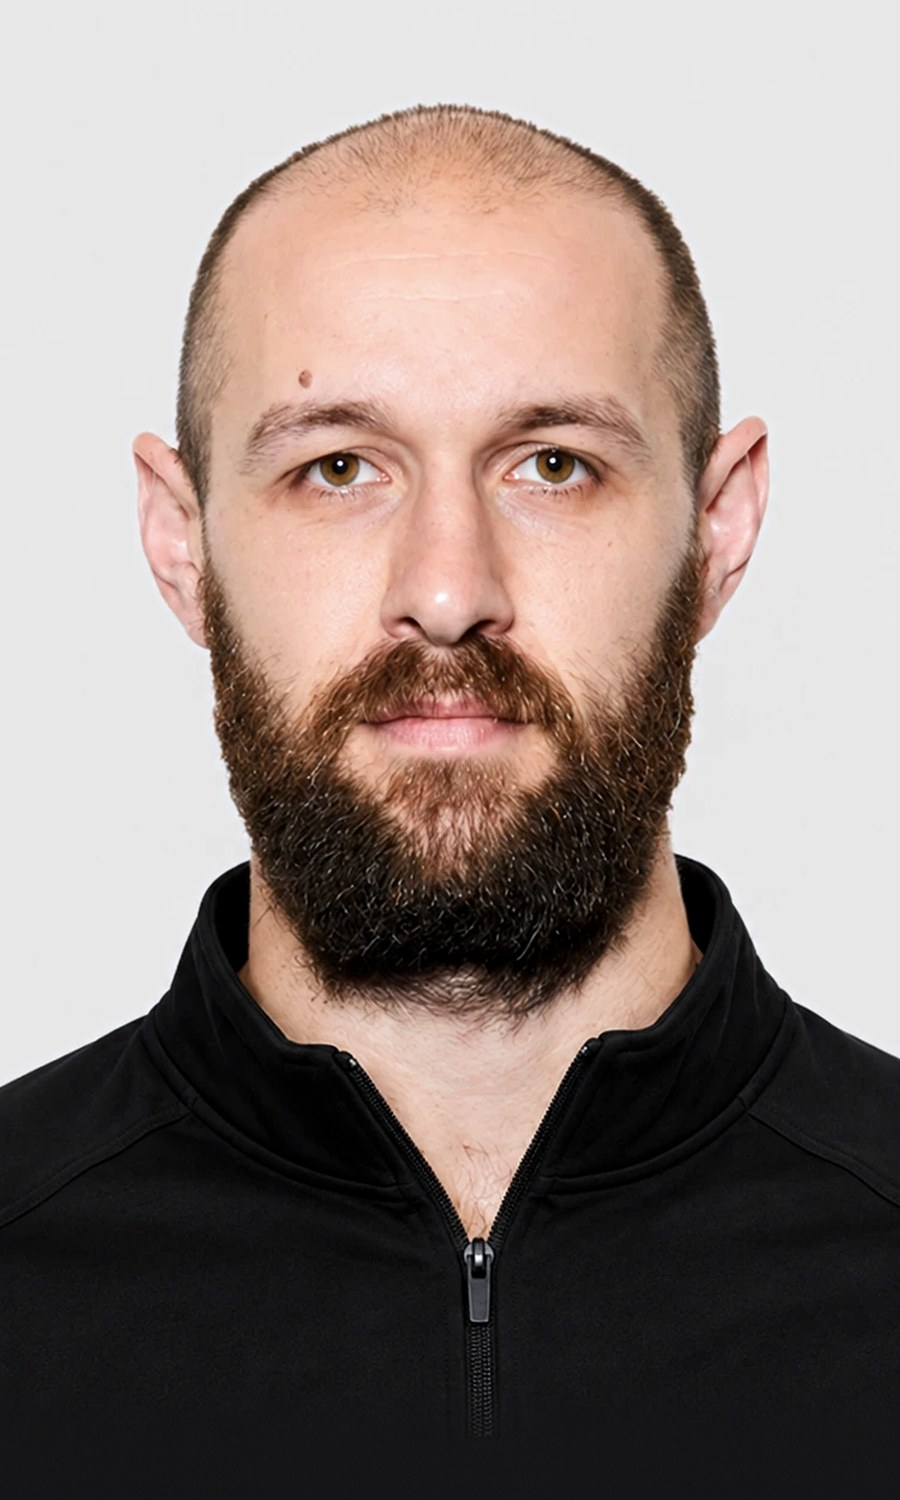
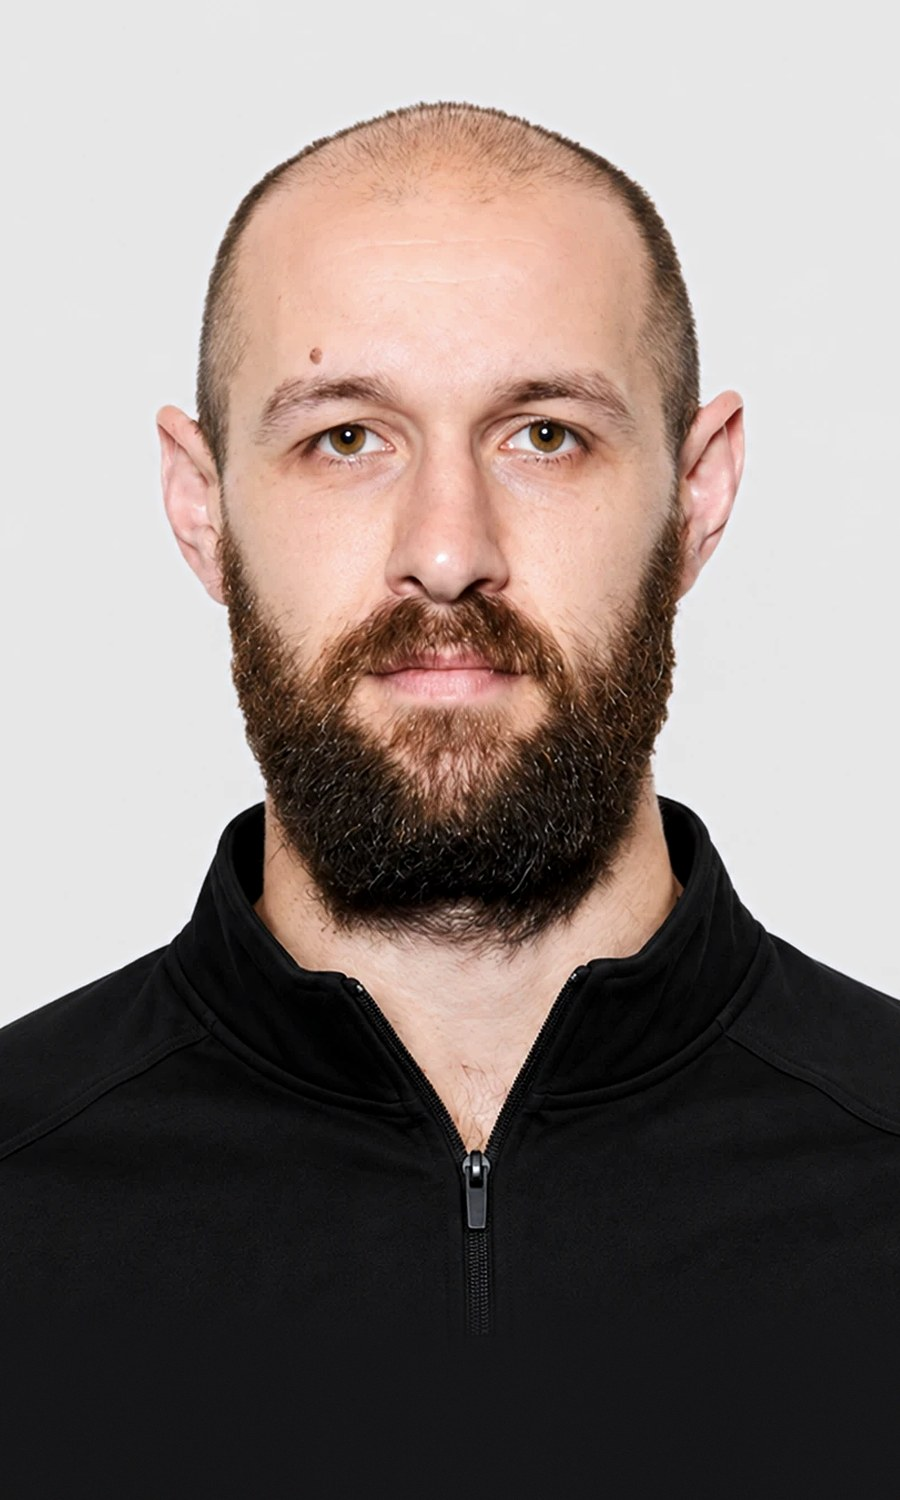
About: Rhys headshot crop loosened slightly

Changed region(s): [[0.1244, 0.0613, 1.0, 0.92], [0.0, 0.6133, 0.2178, 0.736]]

diff --git a/about.html b/about.html
@@ -432,7 +432,7 @@ src="https://www.facebook.com/tr?id=846020845059569&ev=PageView&noscript=1"
       <div class="coach-card coach-card--7">
         <div class="coach-card-frame">
           <div class="coach-card-photo photo">
-            <img src="images/coach-rhys-martin.jpg?v=10" alt="Rhys Martin, Senior Basketball Trainer at The Courts" width="900" height="1500" loading="lazy" decoding="async">
+            <img src="images/coach-rhys-martin.jpg?v=11" alt="Rhys Martin, Senior Basketball Trainer at The Courts" width="900" height="1500" loading="lazy" decoding="async">
             <span class="coach-card-corner"></span>
           </div>
           <div class="coach-card-body">
